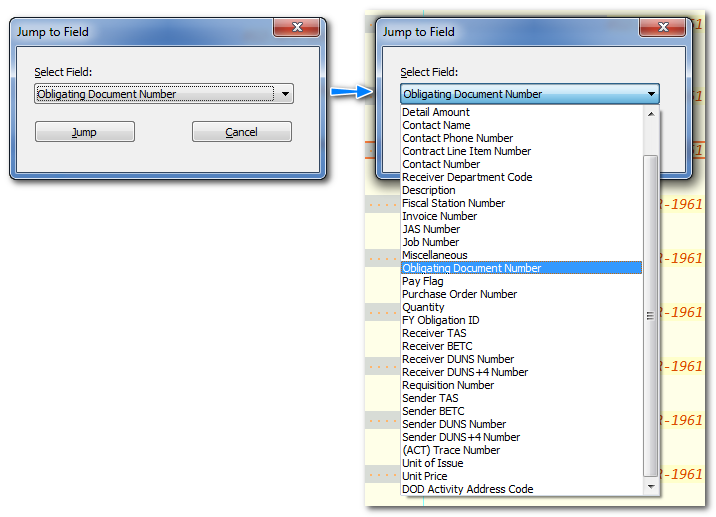
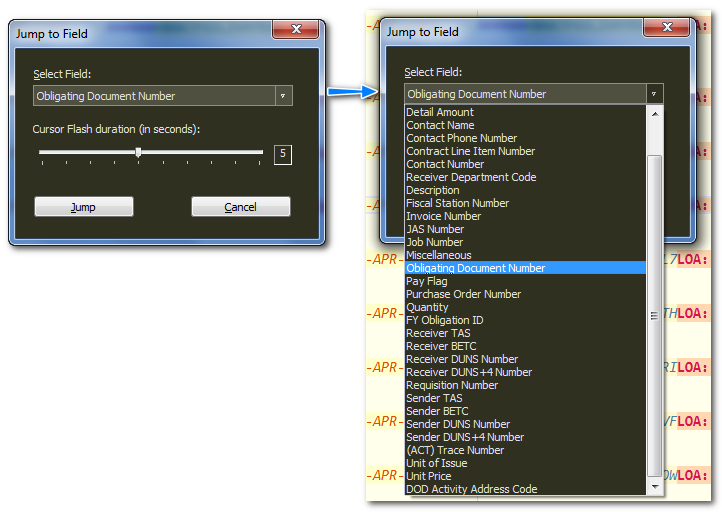
Cursor briefly flashed in block mode after Jump to Field

diff --git a/src/Dialogs/JumpToField.cpp b/src/Dialogs/JumpToField.cpp
@@ -9,6 +9,14 @@ void JumpToField::doDialog(HINSTANCE hInst) {
       create(IDD_JUMP_FIELD_DIALOG);
    }
 
+   hCaretFlash = GetDlgItem(_hSelf, IDC_JUMP_CARET_FLASH_SLIDER);
+   SendMessage(hCaretFlash, TBM_SETRANGEMIN, FALSE, 1);
+   SendMessage(hCaretFlash, TBM_SETRANGEMAX, FALSE, 10);
+
+   Utils::addTooltip(_hSelf, IDC_JUMP_CARET_FLASH_LABEL, NULL, JUMP_TIP_CARET_FLASH, TRUE);
+   Utils::addTooltip(_hSelf, IDC_JUMP_CARET_FLASH_SLIDER, NULL, JUMP_TIP_CARET_FLASH, TRUE);
+   Utils::addTooltip(_hSelf, IDC_JUMP_CARET_FLASH_VALUE, NULL, JUMP_TIP_CARET_FLASH, TRUE);
+
    if (_gLanguage != LANG_ENGLISH) localize();
    goToCenter();
 
@@ -31,6 +39,10 @@ void JumpToField::initDialog(const wstring fileType, int recordIndex,
    if (fieldLabels.size() > 0)
       SendMessage(hFieldList, CB_SETCURSEL, fieldIndex < 0 ? 0 : fieldIndex, NULL);
 
+   int flashSecs{ _configIO.getCaretFlashSeconds() };
+   SendMessage(hCaretFlash, TBM_SETPOS, TRUE, flashSecs);
+   syncTbarToText(flashSecs);
+
    SetFocus(hFieldList);
 }
 
@@ -38,7 +50,7 @@ void JumpToField::setFileTypeData(const wstring& ftConfig) {
    SetDlgItemText(_hSelf, IDC_JUMP_FIELD_LIST, ftConfig.c_str());
 }
 
-INT_PTR CALLBACK JumpToField::run_dlgProc(UINT message, WPARAM wParam, LPARAM) {
+INT_PTR CALLBACK JumpToField::run_dlgProc(UINT message, WPARAM wParam, LPARAM lParam) {
    switch (message) {
       case WM_COMMAND:
          switch LOWORD(wParam) {
@@ -58,6 +70,10 @@ INT_PTR CALLBACK JumpToField::run_dlgProc(UINT message, WPARAM wParam, LPARAM) {
                onJumpBtnClick();
                break;
          }
+         break;
+
+      case WM_HSCROLL:
+         if (lParam == (LPARAM)hCaretFlash) syncTbarToText();
          break;
 
       case WM_INITDIALOG:
@@ -87,14 +103,23 @@ INT_PTR CALLBACK JumpToField::run_dlgProc(UINT message, WPARAM wParam, LPARAM) {
 void JumpToField::localize() {
    SetWindowText(_hSelf, JUMP_FIELD_DIALOG_TITLE);
    SetDlgItemText(_hSelf, IDC_JUMP_FIELD_LABEL, JUMP_FIELD_SELECT_LABEL);
+   SetDlgItemText(_hSelf, IDC_JUMP_CARET_FLASH_LABEL, JUMP_LABEL_CARET_FLASH);
    SetDlgItemText(_hSelf, IDC_JUMP_FIELD_GO_BTN, JUMP_FIELD_GO_BTN);
    SetDlgItemText(_hSelf, IDCLOSE, JUMP_FIELD_CLOSE_BTN);
 }
 
 void JumpToField::onJumpBtnClick() {
+   _configIO.setCaretFlashSeconds(getTbarPosition());
    display(FALSE);
 
    _vizPanel.jumpToField(initFileType, initRecordRegIndex,
       static_cast<int>(SendMessage(hFieldList, CB_GETCURSEL, NULL, NULL)));
 }
 
+int JumpToField::getTbarPosition() {
+   return static_cast<int>(SendMessage(hCaretFlash, TBM_GETPOS, 0, 0));
+}
+
+void JumpToField::syncTbarToText(int optVal) {
+   SetDlgItemInt(_hSelf, IDC_JUMP_CARET_FLASH_VALUE, (optVal ? optVal : getTbarPosition()), FALSE);
+}

diff --git a/src/Dialogs/VisualizerPanel.cpp b/src/Dialogs/VisualizerPanel.cpp
@@ -324,6 +324,11 @@ void VisualizerPanel::jumpToField(const wstring fileType, const int recordIndex,
    SendMessage(hScintilla, SCI_SETXCARETPOLICY, CARET_JUMPS | CARET_EVEN, (LPARAM)0);
    SendMessage(hScintilla, SCI_GOTOPOS, gotoPos, 0);
 
+   // Flash caret
+   HANDLE hThread = CreateThread(NULL, 0, threadPositionHighlighter, 0, 0, NULL);
+   if (hThread > 0)
+      CloseHandle(hThread);
+
    setFocusOnEditor();
 }
 
@@ -1064,4 +1069,31 @@ void VisualizerPanel::popupSamplesMenu() {
       RemoveMenu(hPopupMenu, 0, MF_BYPOSITION);
    }
    DestroyMenu(hPopupMenu);
+}
+
+DWORD __stdcall VisualizerPanel::threadPositionHighlighter(void*) {
+   HWND hScintilla{ getCurrentScintilla() };
+   if (!hScintilla) return FALSE;
+
+   // Look for Idem Potency Hold
+   if (idemPotentKey)
+      //  Idem Potency check failed. Another thread is processing this same function. Return immediately.
+      return FALSE;
+   else
+      // OK to continue. Set Idem Potency Hold
+      idemPotentKey = TRUE;
+
+   // Modify caret style briefly to highlight the new position
+   int currCaret = static_cast<int>(SendMessage(hScintilla, SCI_GETCARETSTYLE, 0, 0));
+   SendMessage(hScintilla, SCI_SETCARETSTYLE, CARETSTYLE_BLOCK, 0);
+   Sleep(_configIO.getCaretFlashSeconds() * 1000);
+   SendMessage(hScintilla, SCI_SETCARETSTYLE, currCaret, 0);
+
+   int pos = static_cast<int>(SendMessage(hScintilla, SCI_GETCURRENTPOS, 0, 0));
+   SendMessage(hScintilla, SCI_BRACEHIGHLIGHT, pos, -1);
+
+   // Clear Idem Potency Hold
+   idemPotentKey = FALSE;
+
+   return TRUE;
 }

diff --git a/src/Resources/localization.h b/src/Resources/localization.h
@@ -162,6 +162,8 @@
 #define JUMP_FIELD_SELECT_LABEL     L"&Select Field:"
 #define JUMP_FIELD_GO_BTN           L"&Jump"
 #define JUMP_FIELD_CLOSE_BTN        L"&Cancel"
+#define JUMP_LABEL_CARET_FLASH      L"Cursor Flash duration (in seconds)"
+#define JUMP_TIP_CARET_FLASH        L"When the cursor is set at its default width of '1', it can be hard to spot the cursor at its new position. To aid quick spotting, the cursor is briefly set to block mode at the destination position.\r\n\r\nSpecify the number of seconds to have the cursor flashing in block mode at the destination position."
 
 
 // Data Extraction Dialog

diff --git a/src/Resources/resource.h b/src/Resources/resource.h
@@ -1683,7 +1683,10 @@
 #define IDD_JUMP_FIELD_DIALOG           9420
 #define IDC_JUMP_FIELD_LABEL            9421
 #define IDC_JUMP_FIELD_LIST             9422
-#define IDC_JUMP_FIELD_GO_BTN           9423
+#define IDC_JUMP_CARET_FLASH_LABEL      9423
+#define IDC_JUMP_CARET_FLASH_SLIDER     9424
+#define IDC_JUMP_CARET_FLASH_VALUE      9425
+#define IDC_JUMP_FIELD_GO_BTN           9426
 #define IDD_DATA_EXTRACT_DIALOG         9500
 #define IDC_DAT_EXT_INFO_BUTTON         9501
 #define IDC_DAT_EXT_PREFIX_LABEL        9502

diff --git a/src/ConfigIO.cpp b/src/ConfigIO.cpp
@@ -377,3 +377,11 @@ bool ConfigIO::getCaretFramed() {
 void ConfigIO::setCaretFramed(bool framed) {
    setConfigString(L"Preferences", L"FramedCaret", framed ? L"Y" : L"N", CONFIG_FILE_PATHS[CONFIG_PREFS]);
 }
+
+int ConfigIO::getCaretFlashSeconds() {
+   return getConfigInt(L"Preferences", L"CaretFlashSeconds", 5, CONFIG_FILE_PATHS[CONFIG_PREFS]);
+}
+
+void ConfigIO::setCaretFlashSeconds(int seconds) {
+   setConfigString(L"Preferences", L"CaretFlashSeconds", to_wstring(seconds), CONFIG_FILE_PATHS[CONFIG_PREFS]);
+}

diff --git a/src/Dialogs/VisualizerPanel.h b/src/Dialogs/VisualizerPanel.h
@@ -19,6 +19,8 @@
 constexpr int FW_STYLE_CACHE_START_INDEX{ STYLE_LASTPREDEFINED + 1 };
 constexpr int FW_STYLE_CACHE_ITEMS_LIMIT{ 200 };
 
+static bool idemPotentKey{ FALSE };
+
 extern NppData nppData;
 extern ConfigIO _configIO;
 
@@ -112,4 +114,6 @@ protected :
    void showJumpDialog();
    void showExtractDialog();
    void popupSamplesMenu();
+
+   static DWORD WINAPI threadPositionHighlighter(void*);
 };

diff --git a/src/Dialogs/JumpToField.h b/src/Dialogs/JumpToField.h
@@ -17,9 +17,12 @@ public:
 protected:
    wstring initFileType{};
    int initRecordRegIndex;
-   HWND hFieldList;
+   HWND hFieldList, hCaretFlash;
 
    INT_PTR CALLBACK run_dlgProc(UINT Message, WPARAM wParam, LPARAM lParam);
    void localize();
    void onJumpBtnClick();
+
+   int getTbarPosition();
+   void syncTbarToText(int optVal = FALSE);
 };

diff --git a/src/ConfigIO.h b/src/ConfigIO.h
@@ -68,6 +68,9 @@ public:
    bool getCaretFramed();
    void setCaretFramed(bool framed);
 
+   int getCaretFlashSeconds();
+   void setCaretFlashSeconds(int seconds);
+
 protected:
    TCHAR pluginConfigDir[MAX_PATH];
    TCHAR pluginConfigBackupDir[MAX_PATH];

diff --git a/VersionHistory.md b/VersionHistory.md
@@ -1,5 +1,12 @@
 # Version History
 
+### Version 2.1.2.1
+1. **Enhancement:** Cursor will be briefly set to block mode to highlight its position in text when using [Jump to Field](https://github.com/shriprem/FWDataViz#jump-to-field-popup).
+
+**Release:** [2.1.2.1 Release](https://github.com/shriprem/FWDataViz/releases/tag/v2.1.2.1)
+
+---
+
 ### Version 2.1.1.1
 1. **Fixed:** If the ADFT option had been enabled, the plugin was clearing out the NPP's lexing (color scheme) of standard file types (such as .xml, .cpp, .js, etc.). The workaround was to close the FWDataViz panel, and restart NPP. Not anymore with this release.
 

diff --git a/README.md b/README.md
@@ -1,6 +1,6 @@
 # FWDataViz
 #### Fixed Width Data Visualizer plugin for Notepad++
-[Current Version: 2.1.1.1](https://github.com/shriprem/FWDataViz/blob/master/VersionHistory.md)
+[Current Version: 2.1.2.1](https://github.com/shriprem/FWDataViz/blob/master/VersionHistory.md)
 ![FWDataViz](https://raw.githubusercontent.com/shriprem/FWDataViz/master/images/multi_rec_weather_stations.png)
 
 * Visualizes fields within fixed-width data files with distinct colors and font styles.
